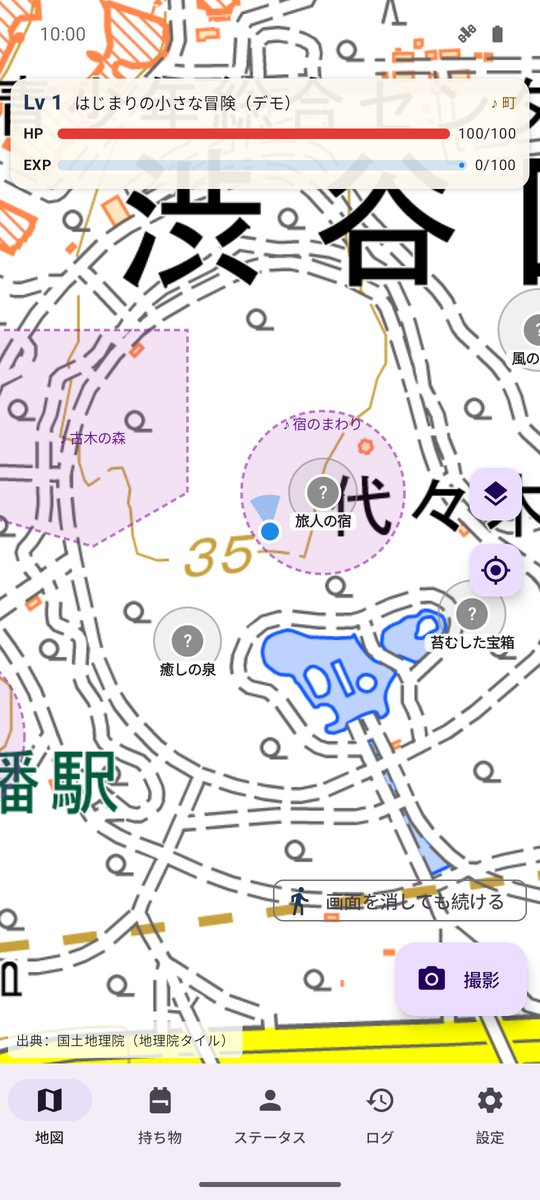
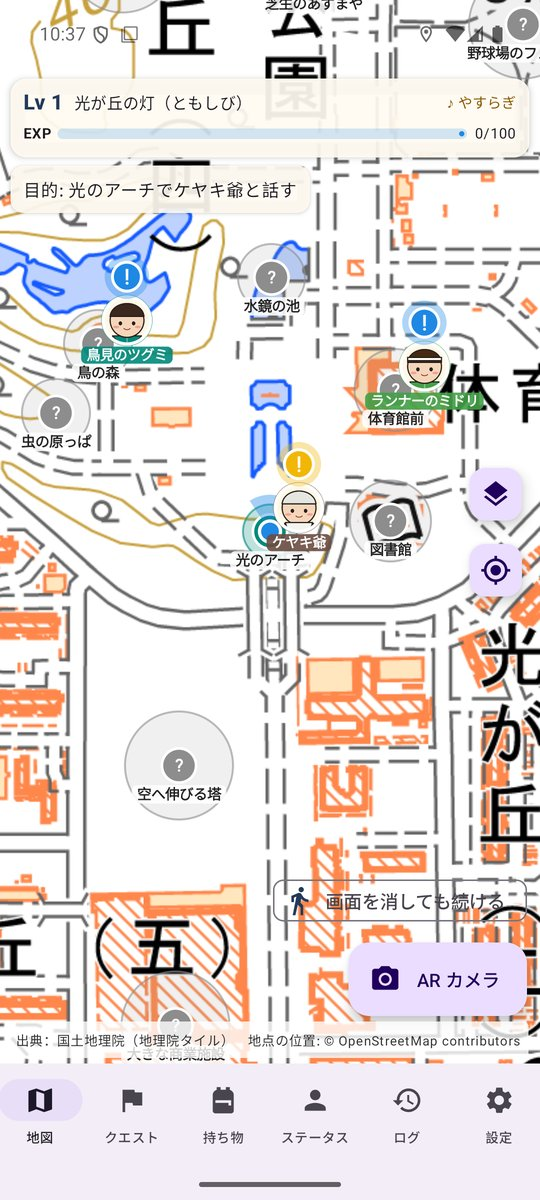
ジオクエスト v0.4.0-dev（戦闘をやめて AR の立ち絵を撮る遊びに）

diff --git a/geo_quest/privacy-policy.html b/geo_quest/privacy-policy.html
@@ -12,14 +12,15 @@
 </head>
 <body>
 <h1>ジオクエスト プライバシーポリシー</h1>
-<p>最終更新: 2026年10月11日（0.2.0-dev・開発中の版）</p>
+<p>最終更新: 2026年10月11日（0.4.0-dev・開発中の版）</p>
 
 <h2>使う情報と使い道</h2>
 <ul>
-  <li><b>位置情報</b>: 地図の現在地、場所に着いたかの判定、戦闘での位置取り、歩いた距離（経験値）、場所ごとの BGM の切り替えに使います。
+  <li><b>位置情報</b>: 地図の現在地、場所に着いたかの判定、AR の立ち絵の位置と方向の計算、歩いた距離（経験値）、場所ごとの BGM の切り替えに使います。
     冒険中に「画面を消しても続ける」を選んだときだけ、通知を出した状態で画面を消したあとも位置を取得します。それ以外はアプリを表示している間だけです。</li>
   <li><b>身体活動（歩数）</b>: 歩数を数えて、地図上のキャラクターの動きをなめらかにするのに使います。歩数は保存・送信しません。</li>
-  <li><b>カメラ</b>: 場所での撮影（イベントやアイテムのきっかけ）に使います。写真は端末の中（このアプリ専用の場所）にだけ保存します。</li>
+  <li><b>カメラ</b>: AR カメラ（立ち絵を探して撮る・場所での撮影）に使います。写真（立ち絵を合成したもの）は端末の中（このアプリ専用の場所）にだけ保存します。</li>
+  <li><b>端末の向き（センサー）</b>: AR の立ち絵を画面のどこに出すかの計算に使います。保存・送信しません。</li>
   <li><b>通知</b>: 冒険を続けている間の通知（BGM と位置の取得中であることの表示）に使います。</li>
   <li><b>ゲームの進行</b>（経験値・持ち物・フラグ・ログ・撮影した場所と日時）、<b>作成したシナリオパック</b>: 端末の中にだけ保存します。</li>
 </ul>
@@ -28,6 +29,9 @@
 <p>通信するのは、地図の画像（国土地理院の地理院タイル）を取得するときだけです。このとき表示している範囲がタイルの番号として国土地理院のサーバーに送られます。</p>
 <p>位置・写真・ゲームの進行は送信しません。広告・アクセス解析・アカウント登録はありません。</p>
 
+<h2>Google Play 開発者サービス（AR）（ARCore）</h2>
+<p>このアプリは、対応する端末では Google Play 開発者サービス（AR）（ARCore）を使い、カメラの映像から地面を認識して立ち絵を立たせます。ARCore は Google LLC が提供し、<a href="https://policies.google.com/privacy">Google のプライバシー ポリシー</a>に従います。ARCore が入っていない・対応していない端末では使いません。このアプリは位置を Google に送る機能（Geospatial API など）は使っていません。設定の「疑似 AR だけにする」で ARCore を使わないようにできます。</p>
+
 <h2>書き出し</h2>
 <p>設定の「書き出す」でゲームの記録と写真を、作成モードでシナリオパックを、利用者が選んだ場所にファイルとして保存できます。シナリオパックに取り込んだ曲や画像はファイルに含まれるので、パックを人に渡すときは中身にご注意ください。端末のクラウドバックアップの対象にはしていません。</p>
 
@@ -35,7 +39,7 @@
 <p>アプリをアンインストールすると、端末内の記録・写真・作成したパックはすべて削除されます。</p>
 
 <h2>出典</h2>
-<p>出典：国土地理院（地理院タイル）。シナリオ「光が丘の灯」の地点の位置: © OpenStreetMap contributors（ODbL）。このアプリは国土地理院・東京都・練馬区が作成・承認したものではありません。内蔵の曲と効果音はアプリのコードで合成したものです。</p>
+<p>出典：国土地理院（地理院タイル）。シナリオ「光が丘の灯」の地点の位置: © OpenStreetMap contributors（ODbL）。このアプリは国土地理院・東京都・練馬区が作成・承認したものではありません。内蔵の曲と効果音はアプリのコードで合成したもの、同梱パックの立ち絵はアプリのために作った絵です。</p>
 
 <h2>お問い合わせ</h2>
 <p>GitHub の Issues からお願いします。</p>

diff --git a/geo_quest/README.md b/geo_quest/README.md
@@ -2,21 +2,21 @@
 
 # ジオクエスト（開発中・仮名）
 
-> **⚠ 開発中の版です。** いまはゲームの土台と、光が丘公園のシナリオ・短いデモだけです。名前・内容・バランス・画面は今後大きく変わります。
+> **⚠ 開発中の版です。** いまはゲームの土台と、光が丘公園のシナリオ・短いデモだけです。名前・内容・画面は今後大きく変わります。
 > セーブデータは今後の版で引き継げなくなることがあります。
 
-現実の街を歩いて冒険する、GPS の位置ゲームです。
+現実の街を歩いて、カメラの向こうにいる人や精霊を探して撮る、GPS の位置ゲームです。
 
 ## ダウンロード
 
-### [APK をダウンロード（v0.2.0-dev・13.5 MB）](https://github.com/kijitora-no-hito/android-apps/releases/download/geoquest-v0.2.0-dev/geoquest-0.2.0-dev-release.apk)
+### [APK をダウンロード（v0.4.0-dev・16.4 MB）](https://github.com/kijitora-no-hito/android-apps/releases/download/geoquest-v0.4.0-dev/geoquest-0.4.0-dev-release.apk)
 
 | 項目 | 内容 |
 | --- | --- |
-| バージョン | 0.2.0-dev（2026-10-11・開発中） |
-| ファイル | `geoquest-0.2.0-dev-release.apk`（14,150,481 バイト） |
[1 lines of base64/hex data omitted]
-| 対応 Android | 7.0 以上 |
+| バージョン | 0.4.0-dev（2026-10-11・開発中） |
+| ファイル | `geoquest-0.4.0-dev-release.apk`（17,168,874 バイト） |
[1 lines of base64/hex data omitted]
+| 対応 Android | 7.0 以上（地面に立たせる AR は ARCore 対応端末のみ） |
 | 権限 | 位置情報、身体活動（歩数）、カメラ、通知、インターネット（地図の画像） |
 | 価格 | 無料・広告なし・アプリ内課金なし・アカウント登録なし |
 
@@ -24,49 +24,53 @@
 
 ## どんなゲーム？
 
-- **実際の場所へ行く**と、会話やイベントが起こります。場所で**写真を撮る**と、アイテムが手に入ったり、隠れた場所が見つかったりします。
-- **歩いたり写真を撮ったりすると経験値**が入り、Lv が上がります（歩いた距離は徒歩の速さのときだけ数えます）。
-- **戦闘は地図の上**。あなたが実際に歩くと、地図の上のキャラクターが動きます。攻撃は自動。あなたは**位置取り**を担当し、敵の攻撃の予告範囲から歩いて出て、［ローリング］で身をかわします。
-- **場所に応じた BGM** が流れ、戦闘やイベントでは曲が切り替わります（曲と効果音はアプリの中で合成したもの）。
-- 冒険は「シナリオパック」で作られていて、**作成モード**で地図に場所を置き、イベント・アイテム・敵・BGM を組み立てて自分の冒険を作れます（書き出し / 読み込み）。
+- **実際の場所へ行く**と、その場所に人（NPC）や精霊が立っています。**AR カメラ**で見ると、景色の中に立ち絵が現れます。
+- **カメラで撮るとイベントが進みます。** 頼まれた物の場所を撮る、隠れた精霊を見つけて撮る、NPC を撮って話しかける——。撮った写真は立ち絵が写り込んだ記念写真として残ります。
+- 遠くにいるときは「あの方向・何 m 先」を示し、場所に着くと、ARCore 対応端末では**地面を認識して足元に立ちます**（非対応の端末でも、GPS と方位の AR で遊べます）。
+- **歩いたり撮ったりすると経験値**が入り、Lv が上がります（歩いた距離は徒歩の速さのときだけ数えます）。
+- **場所に応じた BGM** が流れます（曲と効果音はアプリの中で合成したもの）。
+- 冒険は「シナリオパック」で作られていて、アプリの作成モードや PC のエディタで、自分の冒険を作れます。
 
 ### シナリオ「光が丘の灯（ともしび）」— 練馬区・光が丘公園
 
-むかし「光の丘」と呼ばれた丘には、灯がともっていたという。夕暮れの公園に影の獣が出るようになったいま、公園の入口で出会ったケヤキ爺は、図書館にある古い本に灯をともし直す方法が書いてあるはずだと言う——。
+むかし「光の丘」と呼ばれた丘には、灯がともっていたという。その灯をつくっていた光の精たちが、公園じゅうに散らばってしまった。公園の入口で出会ったケヤキ爺は、図書館にある古い本に、灯をともし直す方法が書いてあるはずだと言う——。
 
 - 公園の入口・図書館・観賞池・くすのき広場・ピラミッド・大芝生など、**実際の場所を巡る**メインクエスト 6 つと、公園の人たちのサブクエスト 7 つ。
 - 依頼を受けられる人の頭上には**「！」**（メインは金、サブは青）、報告できるときは**「？」**。目的地には旗が立ち、画面の外なら端に方向と距離が出ます。
-- 例: 入口のケヤキ爺に頼まれて図書館へ。**外観の写真を撮ると本を借りたことになり**、本を手に入れてケヤキ爺に渡す。
-- **建物の中には入りません**（外観の写真で済みます）。戦闘は公園の広い芝生だけで起こります。写真に人が写らないようにしてください。バードサンクチュアリでは静かに。
+- 例: 入口のケヤキ爺に頼まれて図書館へ。**外観の写真を撮ると本を借りたことになり**、本を手に入れてケヤキ爺に渡す。池に隠れた水の精を AR カメラで見つけて撮る。
+- **建物の中には入りません**（外観の写真で済みます）。精を追いかけて水ぎわや植えこみに入らないでください。写真に人が写らないように。バードサンクチュアリでは静かに。
 - 出発は光が丘駅前。遠くにいても選べます（地図で場所を見られます）。
 
-### いま遊べるデモ「はじまりの小さな冒険」
+### デモ「はじまりの小さな冒険」
 
-冒険を始めた場所のまわり 50〜350 m に、宿・泉・古木・宝箱・野原・塔・祠の 7 か所が現れます。宿で話を聞き、古木で写真を撮り、敵を倒して祠のボスへ。どこでも遊べますが、場所が道路や私有地にかかることがあります（その場所へは行かないでください）。
+冒険を始めた場所のまわり 50〜350 m に、宿・泉・古木・宝箱・野原・塔・祠の 7 か所が現れ、精霊を探して撮る短い冒険ができます。どこでも遊べますが、場所が道路や私有地にかかることがあります（その場所へは行かないでください）。
 
 <table>
 <tr>
-<td align="center"><img src="images/01-map.jpg" width="220" alt="地図"><br>地図（場所・BGM のゾーン）</td>
-<td align="center"><img src="images/03-status.jpg" width="220" alt="ステータス"><br>ステータス</td>
-<td align="center"><img src="images/04-items.jpg" width="220" alt="持ち物"><br>持ち物・装備</td>
+<td align="center"><img src="images/01-map.jpg" width="220" alt="地図"><br>地図（NPC と「！」）</td>
+<td align="center"><img src="images/02-ar-npc.jpg" width="220" alt="AR の NPC"><br>AR カメラ: 入口のケヤキ爺</td>
+<td align="center"><img src="images/03-ar-spirit.jpg" width="220" alt="AR の精"><br>池に隠れた水の精</td>
 </tr>
 <tr>
-<td align="center"><img src="images/05-quest-mark.jpg" width="220" alt="クエストの！"><br>光が丘公園: 依頼主の「！」</td>
+<td align="center"><img src="images/04-ar-photo.jpg" width="220" alt="撮った"><br>撮るとクエストが進む</td>
 <td align="center"><img src="images/06-quest-list.jpg" width="220" alt="クエスト一覧"><br>クエスト一覧</td>
 <td align="center"><img src="images/07-story.jpg" width="220" alt="むかし話"><br>本の中身（物語）</td>
 </tr>
 </table>
 
+（スクリーンショットはエミュレータの仮のカメラ映像です。）
+
 ## 安全のために
 
-- **歩きながら画面を見ないでください。** 戦闘中も、立ち止まって周りを確かめてから画面を見てください。
+- **歩きながら画面を見ないでください。** AR カメラは、立ち止まって周りを確かめてから使ってください。
 - **道路に飛び出さない・私有地や立ち入り禁止の場所に入らない。** 地図上の場所がそういう所にかかっていたら、行かないでください。
-- 車・自転車など、徒歩より速い移動中は戦闘が一時停止し、歩いた距離の経験値も入りません。
+- 車・自転車など、徒歩より速い移動中は撮影でイベントが進まず、歩いた距離の経験値も入りません。
 - 夜間や人通りの少ない場所、天候の悪いときは無理をしないでください。
 
 ## データについて
 
 - 位置・写真・ゲームの進行は端末の中だけに保存し、送信しません。通信は地図の画像の取得だけです。
+- 対応端末では、地面の認識に Google Play 開発者サービス（AR）（ARCore）を使います（位置を Google に送る機能は使っていません）。設定で「疑似 AR だけ」にもできます。
 - 出典：国土地理院（地理院タイル）。光が丘公園のシナリオの地点の位置: © OpenStreetMap contributors（ODbL）。このアプリは国土地理院・東京都・練馬区が作成・承認したものではありません。
 
 ## インストール方法
